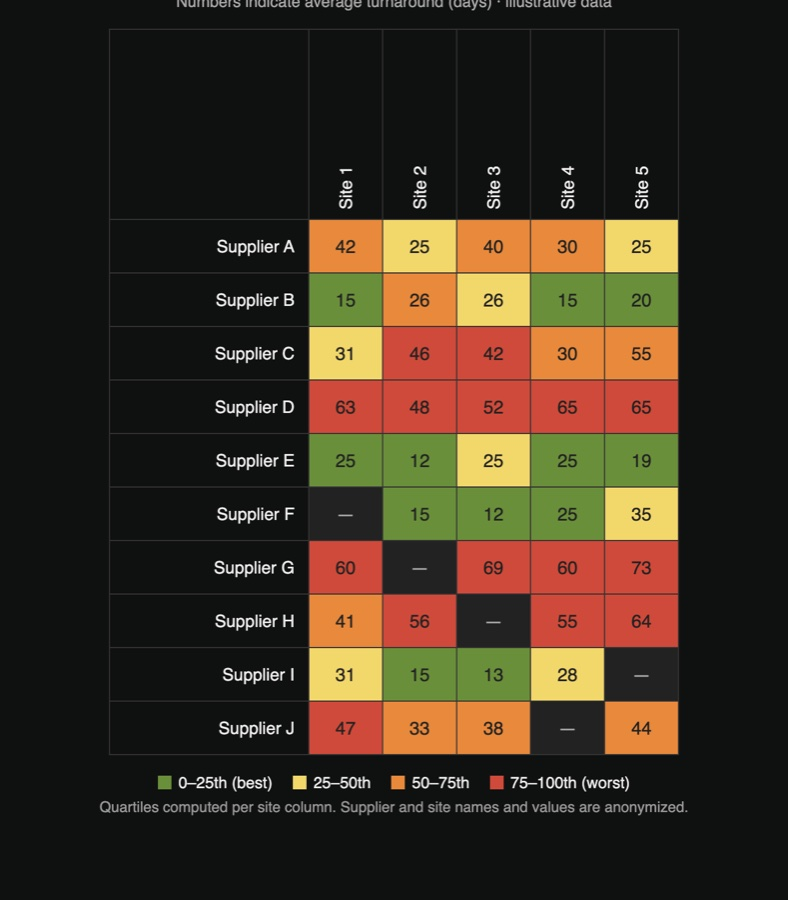
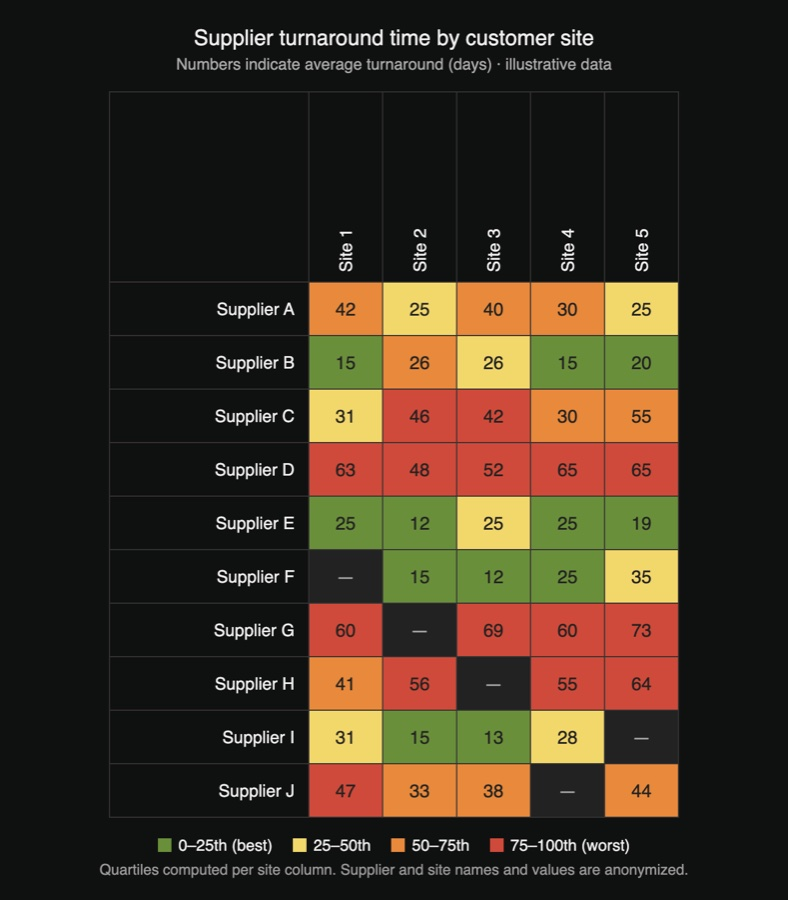
Fix cropped heatmap, add CAD render, new tactile gripper photo

diff --git a/projects.html b/projects.html
@@ -32,7 +32,7 @@
       </div>
     </div>
     <div class="item">
-      <img class="shot" src="images/tactile-gripper.jpg" alt="Two-finger tactile gripper prototype">
+      <img class="shot" src="images/tactile-gripper.jpg?v=2" alt="Two-finger tactile gripper prototype">
       <div class="info">
         <div class="meta"><h3>Tactile Gripper</h3><span class="date">Sep 2026 – now</span></div>
         <div class="sub">In progress · Teensy · C/C++ · Python · Compressive sensing</div>
@@ -48,6 +48,7 @@
       </div>
     </div>
     <div class="item">
+      <img class="shot" src="images/cad.jpg?v=2" alt="3D render of a printable blow-dryer diffuser: full assembly and cutaway">
       <div class="info">
         <div class="meta"><h3>Parametric CAD Designs</h3><span class="date">2026</span></div>
         <div class="sub">OpenSCAD · CadQuery · PETG/ASA</div>
@@ -88,7 +89,7 @@
       </div>
     </div>
     <div class="item">
-      <img class="shot" src="images/supplier-heatmap.jpg" alt="Heatmap of supplier turnaround times by customer site, with anonymized names and values">
+      <img class="shot" src="images/supplier-heatmap.jpg?v=2" alt="Heatmap of supplier turnaround times by customer site, with anonymized names and values">
       <div class="info">
         <div class="meta"><h3>Supplier Turnaround Heatmaps</h3><span class="date">Summer 2024</span></div>
         <div class="sub">R · tidyverse · ggplot2 · Pratt &amp; Whitney</div>
